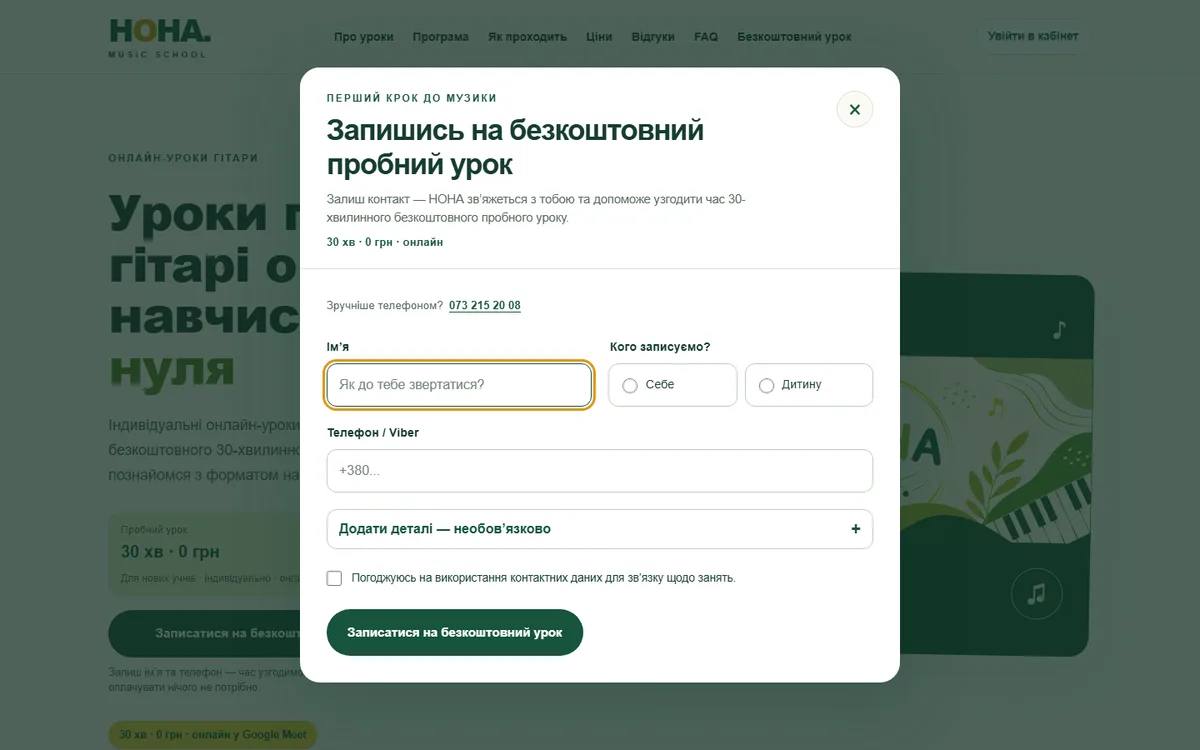
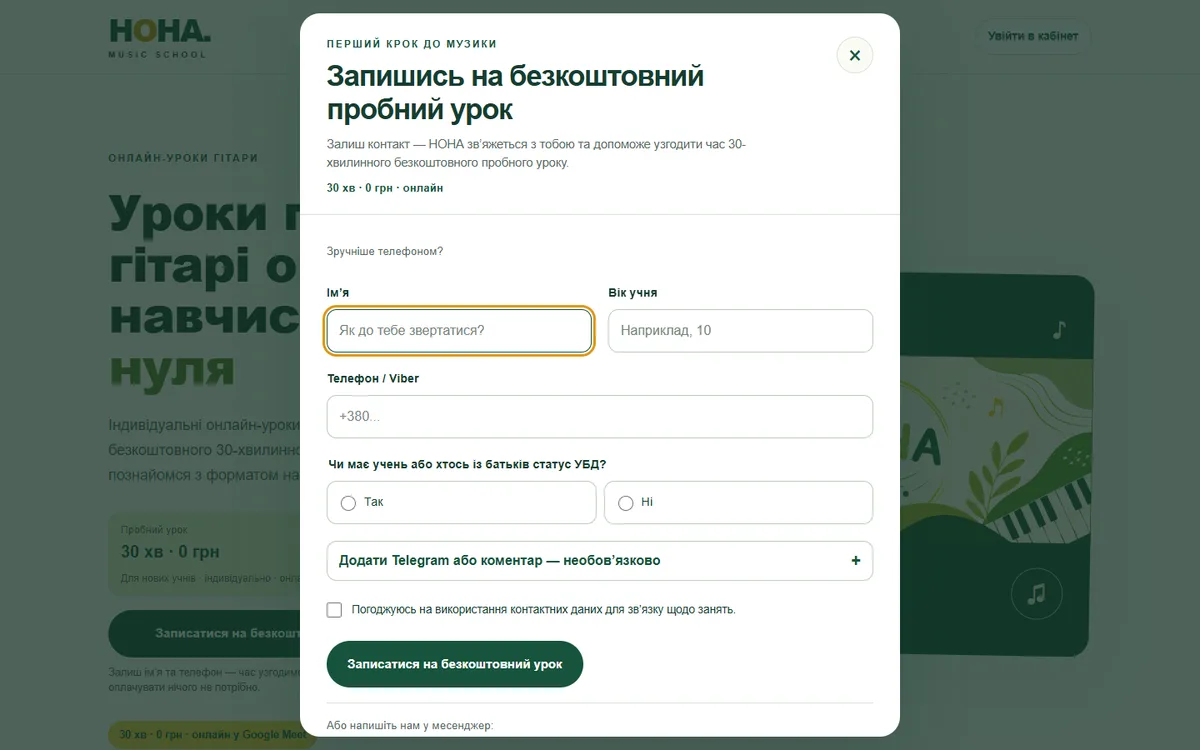
NONA case: remove hidden quote block, fix UA phrase, refresh screenshots
Screenshots retaken from the live /guitar/ page (new form). Empty form, school phone number hidden.

diff --git a/ua/index.html b/ua/index.html
@@ -153,7 +153,7 @@
         <li class="metric metric--lead">
           <p class="metric__num">5</p>
           <p class="metric__text">заявок з реклами</p>
-          <p class="metric__note">приблизно ~209 грн за заявку</p>
+          <p class="metric__note">~209 грн за заявку</p>
         </li>
         <li class="metric metric--lead">
           <p class="metric__num">×2</p>
@@ -162,11 +162,6 @@
         </li>
       </ul>
       <p class="case__result">Один учень одразу купив пакет на 8 уроків. Реклама окупилась ×2 вже з першого продажу, решта заявок іде зверху.</p>
-
-      <figure class="quote" hidden>
-        <blockquote>“…”</blockquote>
-        <figcaption>Арсен, засновник NONA</figcaption>
-      </figure>
 
       <p class="case__link">Живий сайт: <a href="https://nonaschool.com.ua/" target="_blank" rel="noopener">nonaschool.com.ua</a></p>
 

diff --git a/index.html b/index.html
@@ -162,11 +162,6 @@
       </ul>
       <p class="case__result">One new student bought an 8-lesson package straight away. The ads paid for themselves 2× from the first sale alone; every other lead is upside.</p>
 
-      <figure class="quote" hidden>
-        <blockquote>“…”</blockquote>
-        <figcaption>Arsen, founder of NONA</figcaption>
-      </figure>
-
       <p class="case__link">Live site: <a href="https://nonaschool.com.ua/" target="_blank" rel="noopener">nonaschool.com.ua</a></p>
 
       <div class="shots">
